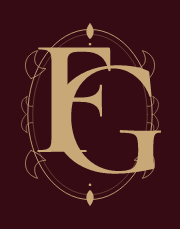
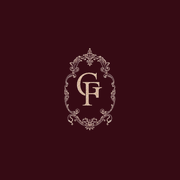
Replace monogram with couple's approved FG monogram artwork
- FgMonogram component now renders the transparent PNG (public/monogram.png)
  instead of hand-crafted SVG paths — the exact artwork the couple approved
- Updated favicon.png (512x512, burgundy bg + gold monogram)
- Updated apple-touch-icon.png (180x180)
- Updated og-image.png (1200x630, burgundy bg + monogram centered)
- Removed old favicon.svg, icon-192.png, icon-512.png references
- index.html updated to reference new favicon
- Hero, Footer, EnvelopeIntro all use the new monogram image
- monogramData.ts retained for reference but no longer rendered

Changed region(s): [[0.1111, 0.0833, 0.9167, 0.9167]]

diff --git a/src/components/FgMonogram.tsx b/src/components/FgMonogram.tsx
@@ -1,34 +1,28 @@
-import type { CSSProperties } from 'react'
-import { MONOGRAM_FRAME, MONOGRAM_LETTERS, MONOGRAM_VIEWBOX } from './monogramData'
-
 interface Props {
   className?: string
   /**
-   * Page color sitting behind the mark — paints the halo that makes the G
-   * read as woven over the F. Defaults to the site's wine background.
-   * Pass the card/paper color when the mark sits on a light surface.
+   * Unused — kept for API compatibility with existing call sites.
+   * The monogram PNG has its own gold coloring baked in.
    */
   halo?: string
 }
 
 /**
- * The ONE canonical Faraz & Gianna (FG) monogram, shared by every brand
- * surface: envelope seal, invitation card, hero, footer, opening experience.
- * Letterforms are real Cormorant Garamond outlines baked into monogramData.ts
- * (the same data that generates favicon.svg and the PNG icons), so the mark
- * is pixel-identical everywhere and never depends on installed fonts.
+ * The canonical Faraz & Gianna (FG) monogram — an ornate Baroque oval
+ * cartouche with interlocked serif initials in champagne gold.
+ *
+ * Rendered from a single transparent PNG (public/monogram.png) so the
+ * exact artwork the couple approved is pixel-identical everywhere:
+ * envelope seal, invitation card, hero watermark, footer, favicon.
  */
-export default function FgMonogram({ className, halo }: Props) {
-  const style = halo ? ({ '--monogram-halo': halo } as CSSProperties) : undefined
+export default function FgMonogram({ className, halo: _halo }: Props) {
   return (
-    <svg
-      viewBox={`0 0 ${MONOGRAM_VIEWBOX.w} ${MONOGRAM_VIEWBOX.h}`}
+    <img
+      src="/monogram.png"
+      alt=""
       className={className}
-      style={style}
-      xmlns="http://www.w3.org/2000/svg"
       aria-hidden="true"
-      focusable="false"
-      dangerouslySetInnerHTML={{ __html: MONOGRAM_FRAME + MONOGRAM_LETTERS }}
+      draggable={false}
     />
   )
 }

diff --git a/src/components/EnvelopeIntro.tsx b/src/components/EnvelopeIntro.tsx
@@ -281,7 +281,7 @@ export default function EnvelopeIntro({ invitation, onFinished }: Props) {
                 transition: 'opacity 1000ms ease 400ms'
               }}
             >
-              <FgMonogram halo="#ead9bf" className="h-14 w-auto text-[#3c0d18] sm:h-16" />
+              <FgMonogram halo="#ead9bf" className="h-16 w-auto sm:h-20" />
               <p className="mt-3 text-[9px] uppercase tracking-widest2 text-[#7a5c39] sm:text-[10px]">
                 The wedding of
               </p>
@@ -371,7 +371,7 @@ export default function EnvelopeIntro({ invitation, onFinished }: Props) {
           }}
         >
           <div className="envelope-breathe rounded-full" style={{ padding: 10, background: 'radial-gradient(circle, rgba(201,168,119,0.12) 0%, transparent 70%)' }}>
-            <FgMonogram className="h-12 w-auto text-gold sm:h-14" />
+            <FgMonogram className="h-12 w-auto sm:h-14" />
           </div>
         </div>
       </div>

diff --git a/index.html b/index.html
@@ -3,10 +3,8 @@
   <head>
     <meta charset="UTF-8" />
     <meta name="viewport" content="width=device-width, initial-scale=1, viewport-fit=cover" />
-    <link rel="icon" type="image/svg+xml" href="/favicon.svg" />
+    <link rel="icon" type="image/png" sizes="512x512" href="/favicon.png" />
     <link rel="apple-touch-icon" href="/apple-touch-icon.png" />
-    <link rel="icon" type="image/png" sizes="192x192" href="/icon-192.png" />
-    <link rel="icon" type="image/png" sizes="512x512" href="/icon-512.png" />
     <meta name="theme-color" content="#360b14" />
     <title>Faraz &amp; Gianna — Wedding Invitation</title>
     <meta name="description" content="You are cordially invited to the wedding of Faraz &amp; Gianna." />

diff --git a/src/components/Hero.tsx b/src/components/Hero.tsx
@@ -7,7 +7,7 @@ export default function Hero({ invitation }: { invitation: Invitation }) {
     <section id="invitation" className="flex min-h-[92vh] flex-col items-center justify-center px-6 text-center">
       {/* Watermark: the FG mark echoes the envelope card behind the hero. */}
       <FgMonogram
-        className="animate-fade-up h-28 w-auto text-gold sm:h-32"
+        className="animate-fade-up h-28 w-auto sm:h-32"
       />
       <p className="animate-fade-up mt-4 text-xs uppercase tracking-widest2 text-clay" style={{ animationDelay: '80ms' }}>
         {invitation.invitation_title || 'Together with our families'}

diff --git a/src/components/Footer.tsx b/src/components/Footer.tsx
@@ -51,7 +51,7 @@ export default function Footer({ invitation }: { invitation: Invitation }) {
 
   return (
     <footer id="footer" className="border-t border-line/70 px-6 py-14 text-center">
-      <FgMonogram className="mx-auto h-16 w-auto text-gold" />
+      <FgMonogram className="mx-auto h-16 w-auto" />
       <p className="mt-4 font-display italic text-lg text-ink/70">
         {invitation.bride_name} &amp; {invitation.groom_name}
       </p>
